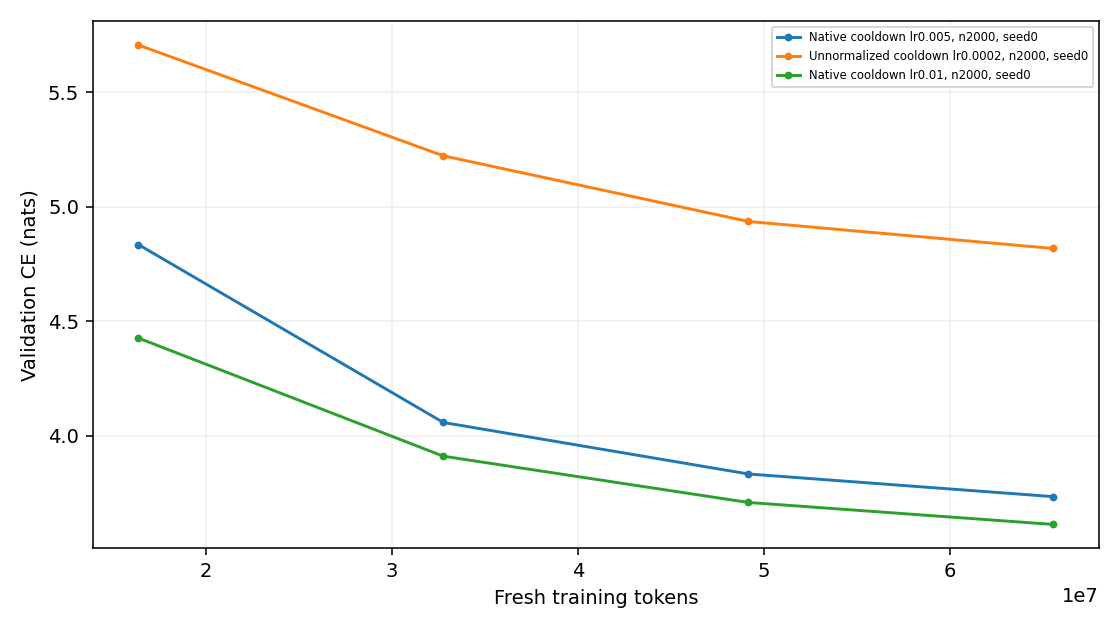
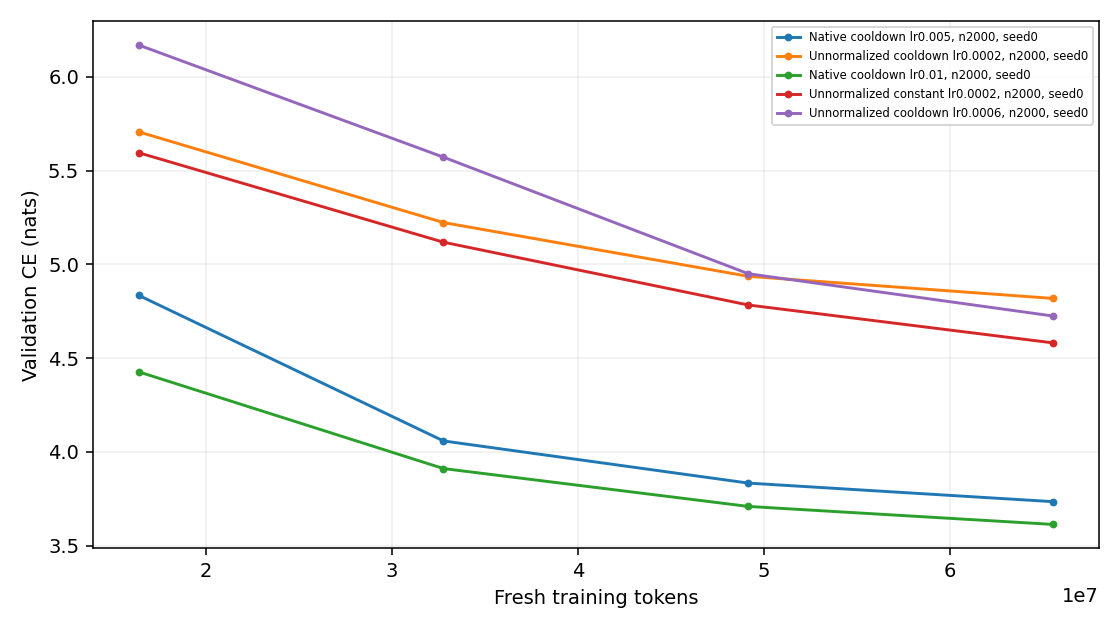
Update live Muon experiment results

diff --git a/research/unnormalized_muon/RESULTS.md b/research/unnormalized_muon/RESULTS.md
@@ -7,11 +7,15 @@ One B300 per job. CE is token cross-entropy (nats); lower is better. Rows with d
 | um-fw-diagnostic-001 | FW backtracking | 64 | 0 | 0.02 | 6.469995 | 1.960658 | — | 95.07 |
 | um-screen-00-0-native-lr0p005 | Native cooldown | 2000 | 0 | 0.005 | 3.734536 | 1.132046 | — | 145.49 |
 | um-screen-00-1-scaled-lr0p0002 | Unnormalized cooldown | 2000 | 0 | 0.0002 | 4.818060 | 1.460343 | — | 153.42 |
+| um-screen-00-2-constant-lr0p0002 | Unnormalized constant | 2000 | 0 | 0.0002 | 4.581043 | 1.388601 | — | 151.98 |
 | um-screen-01-0-native-lr0p01 | Native cooldown | 2000 | 0 | 0.01 | 3.613164 | 1.095335 | — | 144.24 |
+| um-screen-01-1-scaled-lr0p0006 | Unnormalized cooldown | 2000 | 0 | 0.0006 | 4.724209 | 1.431941 | — | 154.79 |
 | um-smoke-001/native | Native cooldown | 64 | 42 | 0.02 | 6.475706 | 1.962373 | — | 101.57 |
 | um-smoke-001/scaled | Unnormalized cooldown | 64 | 42 | 0.002 | 6.492003 | 1.967335 | — | 74.24 |
 
-Conservative charged/reserved total: 1.4244 / 10 B300 GPU-hours. Includes prior smoke/failed attempts and current maximum-duration reservations. Three-slot central queue; one B300 per run.
+Review of um-fw-diagnostic-001: Compiled training f0 compared against functional candidate losses; vanishing-step mismatch2-4e-5 exceeded tolerance, leading to curvature1e186 and45 skipped steps. Replaced by paired functional reference and candidates; retain all645 measured forwards and GPUcost.
+
+Conservative charged/reserved total: 0.4747 / 10 B300 GPU-hours. Includes prior smoke/failed attempts and current maximum-duration reservations. Three-slot central queue; one B300 per run.
 
 Core modification: per-matrix nonnegative FP32 inner product of the native Nesterov input with its NS/Frobenius direction. Multiply the native NorMuon direction afterward, then apply native decoupled cautious decay separately. Shape scaling occurs once outside the scalar. Constant schedule changes only matrix LR; auxiliary schedules and momentum remain matched.
 
